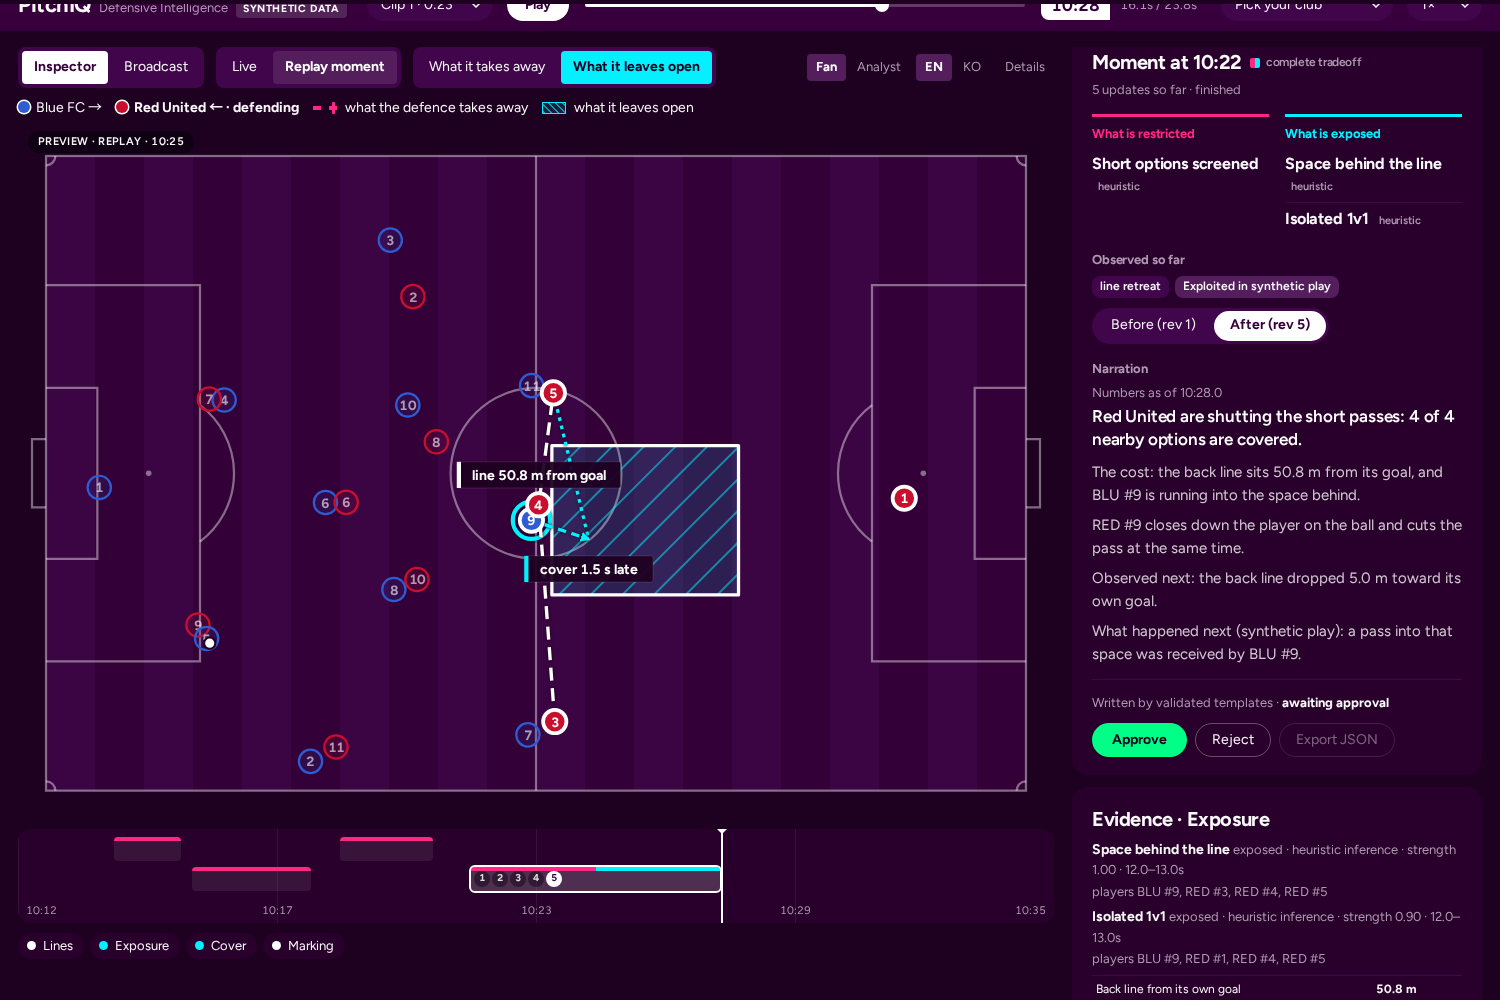
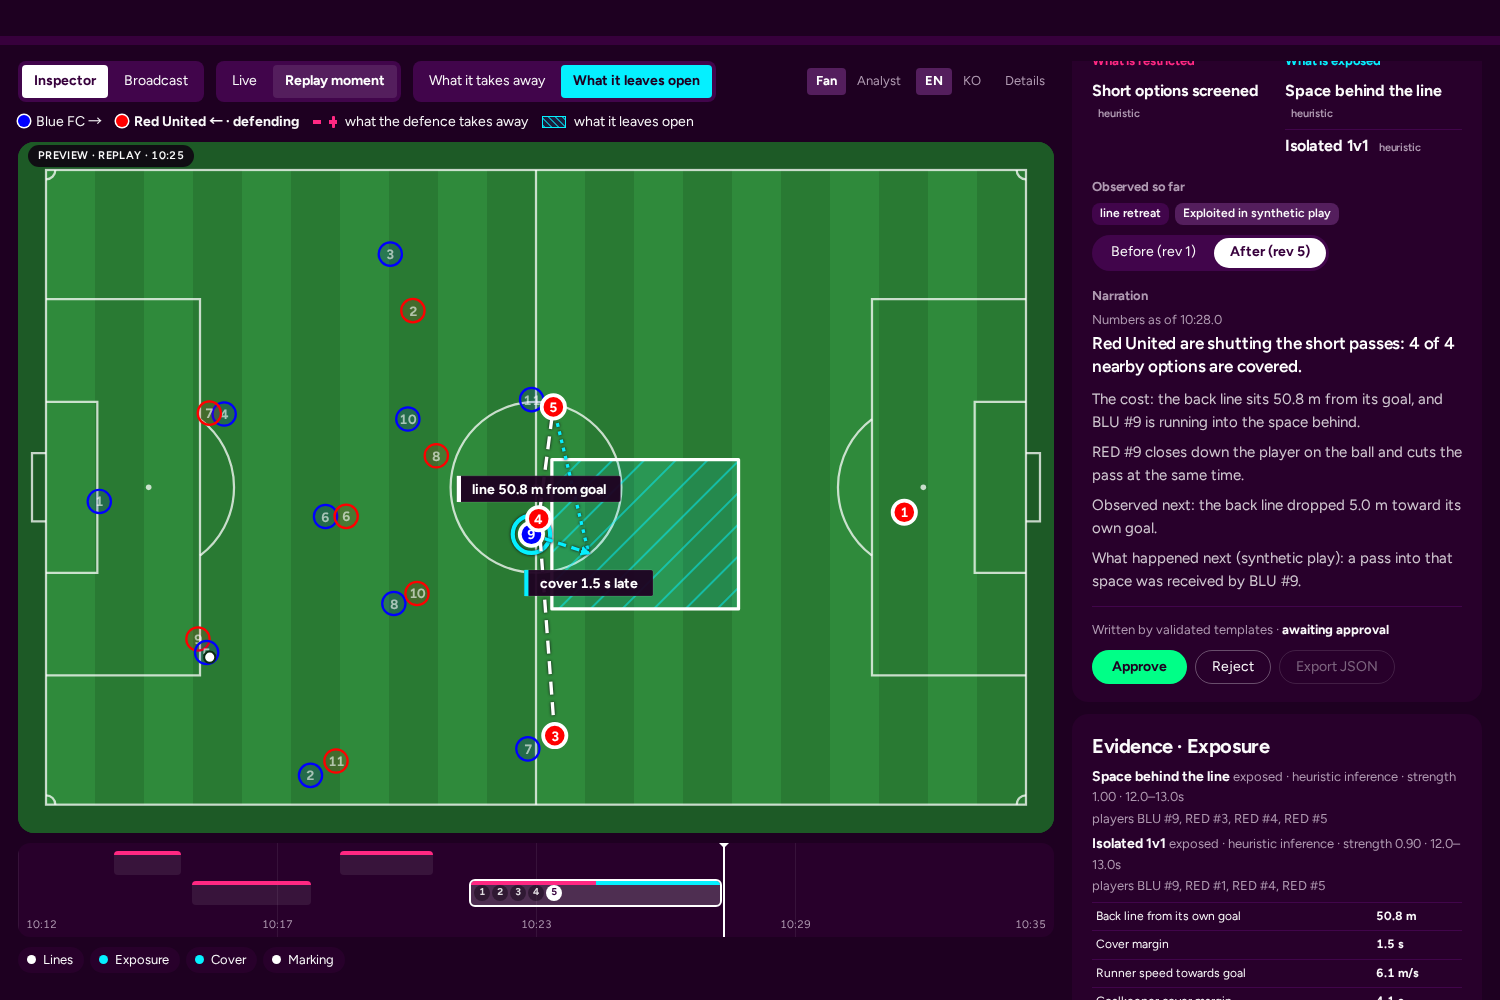
Grass pitch, pure red and blue kits
The pitch is grass green with white markings, Red United is rgb(255, 0, 0)
and Blue FC rgb(0, 0, 255), with a white ring around each player. The
walkthrough screenshots and the README hero are regenerated (62/62).

diff --git a/frontend/src/styles.css b/frontend/src/styles.css
@@ -10,8 +10,8 @@
   --fg: #faf9fa; --muted: #af99b1; --faint: #87668a;
   --pink: #ff2882; --cyan: #05f0ff; --green: #00ff87; --yellow: #ebff00; --lilac: #953bff; --live: #ff6900;
   --restricted: var(--pink); --exposed: var(--cyan); --ok: var(--green); --warn: var(--yellow); --accent: var(--green);
-  --blue: #2f5bd3; --red: #c8102e;  /* the two synthetic teams: kit colours, deep enough to separate from the pink graphics */
-  --turf: #1e0021; --field: #37003c; --line: rgba(255, 255, 255, 0.42);
+  --blue: #0000ff; --red: #ff0000;  /* the two synthetic teams: pure kit colours */
+  --turf: #1d5a26; --field: #2e7d32; --line: rgba(255, 255, 255, 0.75);  /* a grass pitch with white markings */
   --radius: 8px;
   font-family: "Figtree", "Noto Sans KR", "Apple SD Gothic Neo", "Malgun Gothic", "Segoe UI", system-ui, sans-serif;
   color-scheme: dark;
@@ -98,7 +98,7 @@ select option { background: var(--panel); color: var(--fg); }
 .pitch-wrap { position: relative; border-radius: 16px; overflow: hidden; background: var(--turf); }
 .pitch { display: block; width: 100%; height: auto;
   /* 20 mown bands of 5.25 m on the field only (viewBox -3 -3 111 74: 105/111 by 68/74), an edge on the halfway line */
-  background: var(--turf) repeating-linear-gradient(90deg, #3b0442 0 5%, #330037 5% 10%) center / 94.5946% 91.8919% no-repeat; }
+  background: var(--turf) repeating-linear-gradient(90deg, #2f8a3b 0 5%, #297a33 5% 10%) center / 94.5946% 91.8919% no-repeat; }
 .turf, .field { fill: none; }
 .pitch-wrap[data-focus=exposed] :is(.layer-screened_lanes, .layer-pressure, .layer-numbers) { opacity: 0.12; }
 .pitch-wrap[data-focus=restricted] :is(.layer-exposure, .layer-cover, .layer-outlets) { opacity: 0.12; }
@@ -121,13 +121,13 @@ select option { background: var(--panel); color: var(--fg); }
 .air-note { margin: 8px 4px 0; font-size: 13px; color: var(--warn); }
 .stage:has(> .caption) .pitch-wrap { border-bottom-left-radius: 0; border-bottom-right-radius: 0; }
 
-.pl-body { stroke: #12001a; stroke-width: 0.3; }  /* a knock-out ring keeps touching players apart */
+.pl-body { stroke: #ffffff; stroke-width: 0.22; }  /* a white ring keeps touching players apart on the grass */
 .pl-tx { fill: #fff; font-size: 1.45px; font-weight: 700; letter-spacing: -0.04em; pointer-events: none; }
 .pl.hl .pl-body { stroke: #fff; stroke-width: 0.4; }
 .pitch:has(.pl.hl) .pl:not(.hl) .pl-body { fill-opacity: 0.12; stroke: var(--kit); stroke-width: 0.24; }
 .pitch:has(.pl.hl) .pl:not(.hl) .pl-tx { fill: rgba(255, 255, 255, 0.6); }
 .pl.clickable { cursor: pointer; }
-.ball { fill: #fff; stroke: #1e0021; stroke-width: 0.22; }
+.ball { fill: #fff; stroke: #0b2a12; stroke-width: 0.22; }
 .ov { fill: none; cursor: pointer; }
 .hit { stroke: transparent; stroke-width: 2.2; cursor: pointer; }
 line.ov, polyline.ov, circle.ov { filter: drop-shadow(0 0 0.18px rgba(14, 0, 16, 0.95)); }
